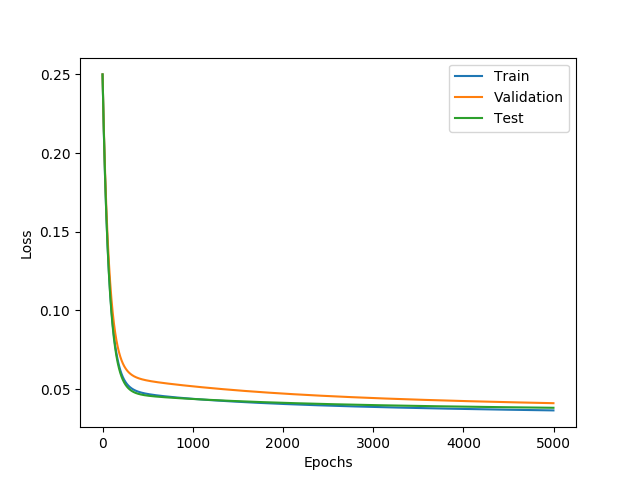
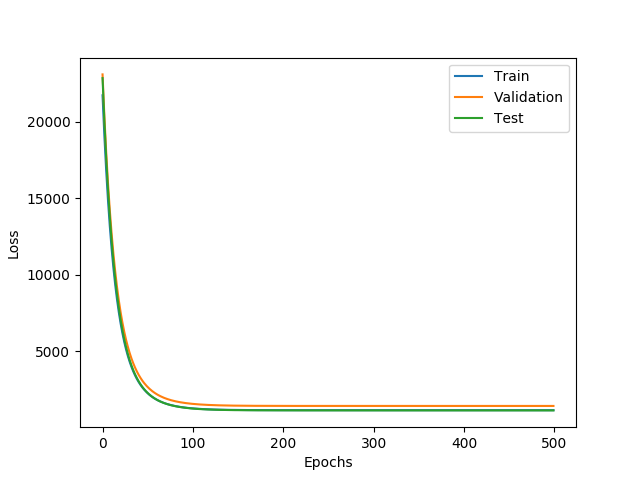
addded pytorch

diff --git a/a1/code/starter.py b/a1/code/starter.py
@@ -2,8 +2,35 @@ import tensorflow as tf
 import numpy as np
 from numpy.linalg import inv
 import matplotlib.pyplot as plt
+import torch
 import time
-
+class Dataset(torch.utils.data.Dataset):
+    def __init__(self, data, labels):
+        'Initialization'
+        self.labels = labels
+        self.data = data.reshape((data.shape[0], data.shape[1]*data.shape[1]))
+        self.data = np.concatenate((np.ones((self.data.shape[0], 1)), self.data), axis=1)
+    def __len__(self):
+        'Denotes the total number of samples'
+        return len(self.labels)
+    def __getitem__(self, index):
+        'Generates one sample of data'
+        # Select sample
+        ID = self.labels[index]
+        # Load data and get label
+        X = self.data[ID]
+        y = self.labels[ID]
+        return X, y
+    def obtain_np_data(self):
+        return self.data, self.labels
+def truncatedNormal(input_tensor, mean, std):
+    for i in range (0, input_tensor.size()[0]):
+        for j in range (0, input_tensor.size()[1]):
+            num = np.random.normal(mean, std)
+            while np.abs(num - mean) > 2 * std:
+                num = np.random.normal(mean, std)
+            input_tensor[i][j] = num
+    return input_tensor.numpy()
 
 def loadData():
     with np.load('notMNIST.npz') as data:
@@ -24,7 +51,6 @@ def loadData():
         testData, testTarget = Data[3600:], Target[3600:]
     return trainData, validData, testData, trainTarget, validTarget, testTarget
 
-
 def MSE(W, b, x, y, reg):
     try:
         x = x.reshape(x.shape[0], x.shape[1] * x.shape[1])
@@ -36,7 +62,6 @@ def MSE(W, b, x, y, reg):
     error = ((y - y_est).dot((y - y_est)) + 1 * reg / 2 * (W.squeeze().dot(W.squeeze()))) / x.shape[0]
     return error
 
-
 def gradMSE(W, b, x, y, reg):
     x = x.reshape(x.shape[0], x.shape[1] * x.shape[1])  # flattens the second and third dimensions
     ones = np.ones((x.shape[0], 1)).squeeze()
@@ -44,7 +69,6 @@ def gradMSE(W, b, x, y, reg):
     b_grad = (2 * ones.dot(x.dot(W) + b * ones - y)) / x.shape[0]
     W_grad = (2 * x.T.dot((x.dot(W) + b * ones - y)) + reg * W) / x.shape[0]
     return b_grad, W_grad
-
 
 def CrossEntropyLoss(w, b, x, y, reg):
     x = x.reshape(x.shape[0], x.shape[1] * x.shape[1])
@@ -58,7 +82,6 @@ def CrossEntropyLoss(w, b, x, y, reg):
     y_est = x.dot(w) + b * I#loss = np.average(y*np.log(1+np.exp(-y_est))+(1-y)*np.log(1+np.exp(y_est))) + reg / 2 * np.linalg.norm(w)
     loss = np.average(np.log(1+np.exp(-y*y_est)))+reg*np.linalg.norm(np.concatenate((w.reshape(-1,1),np.array([b]).reshape(-1,1))))
     return loss
-
 
 def gradCE(w, b, x, y, reg):
     x = x.reshape(x.shape[0], x.shape[1] * x.shape[1])
@@ -77,17 +100,31 @@ def gradCE(w, b, x, y, reg):
     b_grad = np.average(b_grad,0) + reg*b
     return b_grad,w_grad
 
+def compute_loss_with_tensor(weight, dataset, loss_func):
+    data, label = dataset.obtain_np_data()
+    data = torch.FloatTensor(data)
+    label = torch.FloatTensor(label)
+    result = data.mm(weight)
+    loss = loss_func(result, label).item()
+    return loss
 
+def compute_accuracy_with_tensor(weights, dataset):
+    x, y = dataset.obtain_np_data()
+    x = torch.FloatTensor(x)
+    result = (x.mm(weights)).detach().numpy()
+    print(x.size())
+    print(weights.size())
+    accuracy = np.where(result == y.squeeze(), 1, 0).sum()
+    return accuracy / result.shape[0]
 def compute_accuracy(W, b, x, y):
     try:
         x = x.reshape(x.shape[0], x.shape[1] * x.shape[1])
     except:
-        print("nothing")
+        pass
     output = x.dot(W) + b
     output = np.where(output >= 0.5, 1, 0).squeeze()
     accuracy = np.where(output == y.squeeze(), 1, 0).sum()
     return accuracy / output.shape[0]
-
 
 def plot_trend(list_of_data, data_names=["Train", "Validation", "Test"], data_title="Accuracy", y_label="Accuracy"):
     x_axis = np.arange(len(list_of_data[0]))
@@ -99,7 +136,6 @@ def plot_trend(list_of_data, data_names=["Train", "Validation", "Test"], data_ti
     plt.legend()
     plt.savefig(data_title + ".png")
     plt.show()
-
 
 def grad_descent(W, b, x, y, alpha, epochs, reg, error_tol=0.0000001, val_data=[], test_data=[], lossType='MSE'):
     # initialize storage elements
@@ -134,10 +170,10 @@ def grad_descent(W, b, x, y, alpha, epochs, reg, error_tol=0.0000001, val_data=[
         if epoch_error <= error_tol:
             break
     plot_trend([error_train, error_valid, error_test],
-               data_title="Loss of Train, Validation and Test Data with alpha = 0.0005, lambda = 0.5", y_label="Loss")
-    plot_trend([acc_train, acc_valid, acc_test])
+               data_title="Loss of Train, Validation and Test Data with alpha = 0.0001, lambda = 0",
+               y_label="Loss")
+    plot_trend([acc_train, acc_valid, acc_test], data_title="", y_label="Accuracy")
     return W, b
-
 
 def MSE_normalEQ(W, b, x, y):
     x = x.reshape(x.shape[0], x.shape[1] * x.shape[1])
@@ -151,47 +187,91 @@ def MSE_normalEQ(W, b, x, y):
     W = W[1:].squeeze()
     return W, b
 
-
 def buildGraph(loss="MSE"):
-    # Initialize weight and bias tensors
-    tf.set_random_seed(421)
+
+    error_train = []
+    acc_train = []
+    error_valid = []
+    acc_valid = []
+    error_test = []
+    acc_test = []
+
+    # generate dataset objects that are used to create the batch iterators used for SGD
+    # this also make the data into augmented data, in which the i-th data is = {1, x_1, x_2, ..., x_d}
+    train_dataset = Dataset(trainData, trainTarget)
+    valid_dataset = Dataset(validData, validTarget)
+    test_dataset = Dataset(testData, testTarget)
+    torch.manual_seed(421)
+    aug_weights = torch.rand((1+28 * 28, 1))
+    aug_weights = torch.tensor(truncatedNormal(aug_weights, aug_weights.mean(), 0.5), requires_grad=True).float()
+    # bias = torch.FloatTensor(torch.rand((1, 1), requires_grad=True))
+    loss_func = None
+    train_loader = torch.utils.data.DataLoader(train_dataset, batch_size=len(train_dataset), shuffle=True)
+    valid_loader = torch.utils.data.DataLoader(valid_dataset, batch_size=len(valid_dataset), shuffle=True)
+    test_loader = torch.utils.data.DataLoader(test_dataset, batch_size=len(test_dataset), shuffle=True)
+
+    optimizer = torch.optim.SGD([aug_weights], lr=0.0001, weight_decay=0)
     if loss == "MSE":
-        b = 3
+        loss_func = torch.nn.functional.mse_loss
+        for epoch in range (0, 500):
+            for i, batch in enumerate(train_loader):
+                optimizer.zero_grad()
+                feat, batch_label = batch
+                feat = feat.squeeze().float()
+                batch_label = batch_label.squeeze().float()
+                result = feat.mm(aug_weights).squeeze()
+                # print("result", result)
+                # print("batch_label", globals())
+                loss = loss_func(result, batch_label)
+                print(loss)
+                loss.backward()
+                optimizer.step()
+                # prediction = feat*
+            error_train.append(compute_loss_with_tensor(aug_weights, train_dataset, loss_func))
+            error_valid.append(compute_loss_with_tensor(aug_weights, valid_dataset, loss_func))
+            error_test.append(compute_loss_with_tensor(aug_weights, test_dataset, loss_func))
+            acc_train.append(compute_accuracy_with_tensor(aug_weights, train_dataset))
+            acc_valid.append(compute_accuracy_with_tensor(aug_weights, valid_dataset))
+            acc_test.append(compute_accuracy_with_tensor(aug_weights, test_dataset))
+        plot_trend([error_train, error_valid, error_test],
+                   data_title="pytorch_lr==0.0001_weightDecay==0_Loss", y_label="Loss")
+        plot_trend([acc_train, acc_valid, acc_test], data_title="pytorch_lr==0.0001_weightDecay==0_Accuracy")
     elif loss == "CE":
-        a = 2
-    pass
+        loss_func = torch.nn.CrossEntropyLoss()
+    return weights, bias, optimizer
 
 
 trainData, validData, testData, trainTarget, validTarget, testTarget = loadData()
 # print(trainData.shape) # (num of item, length, width)
-W = np.random.randint(1, size=(28 * 28,))
-W = np.random.random((28 * 28,))
-b = 0.5
-reg = 0
-epoch = 100
-lossType='CE'
-lossTypeDic={'MSE':gradMSE, 'CE':gradCE}
-errorTypeDic = {'MSE': MSE, 'CE': CrossEntropyLoss}
-loss_func=lossTypeDic[lossType]
-error_func=errorTypeDic[lossType]
-W_ana, b_ana = MSE_normalEQ(W, b, trainData, trainTarget)
-print(compute_accuracy(W_ana, b_ana, trainData, trainTarget))
-print(MSE(W_ana, b_ana, trainData, trainTarget, 0))
-W = np.random.randint(1, size=(28 * 28,))
-b = 0.5
-W, b = grad_descent(W, b, trainData, trainTarget, 0.005, epoch, reg, error_tol=0.0000001,
-                    val_data=[validData, validTarget], test_data=[testData, testTarget],lossType=lossType)
-print(compute_accuracy(W, b, trainData, trainTarget))
-print(error_func(W, b, trainData, trainTarget, 0))
-lossType="MSE"
-loss_func=lossTypeDic[lossType]
-error_func=errorTypeDic[lossType]
-W = np.random.randint(1, size=(28 * 28,))
-b = 0.5
-W, b = grad_descent(W, b, trainData, trainTarget, 0.005, epoch, reg, error_tol=0.0000001,
-                    val_data=[validData, validTarget], test_data=[testData, testTarget],lossType=lossType)
-print(compute_accuracy(W, b, trainData, trainTarget))
-print(error_func(W, b, trainData, trainTarget, 0))
+def run_part_1():
+    W = np.random.randint(1, size=(28 * 28,))
+    W = np.random.random((28 * 28,))
+    b = 0.5
+    reg = 0
+    epoch = 100
+    lossType='CE'
+    lossTypeDic={'MSE':gradMSE, 'CE':gradCE}
+    errorTypeDic = {'MSE': MSE, 'CE': CrossEntropyLoss}
+    loss_func=lossTypeDic[lossType]
+    error_func=errorTypeDic[lossType]
+    W_ana, b_ana = MSE_normalEQ(W, b, trainData, trainTarget)
+    print(compute_accuracy(W_ana, b_ana, trainData, trainTarget))
+    print(MSE(W_ana, b_ana, trainData, trainTarget, 0))
+    W = np.random.randint(1, size=(28 * 28,))
+    b = 0.5
+    W, b = grad_descent(W, b, trainData, trainTarget, 0.005, epoch, reg, error_tol=0.0000001,
+                        val_data=[validData, validTarget], test_data=[testData, testTarget],lossType=lossType)
+    print(compute_accuracy(W, b, trainData, trainTarget))
+    print(error_func(W, b, trainData, trainTarget, 0))
+    lossType="MSE"
+    loss_func=lossTypeDic[lossType]
+    error_func=errorTypeDic[lossType]
+    W = np.random.randint(1, size=(28 * 28,))
+    b = 0.5
+    W, b = grad_descent(W, b, trainData, trainTarget, 0.005, epoch, reg, error_tol=0.0000001,
+                        val_data=[validData, validTarget], test_data=[testData, testTarget],lossType=lossType)
+    print(compute_accuracy(W, b, trainData, trainTarget))
+    print(error_func(W, b, trainData, trainTarget, 0))
 
 # for reg in [0.001, 0.1, 0.5]:
 #     W = np.random.randint(1, size=(28 * 28,))
@@ -200,3 +280,8 @@ print(error_func(W, b, trainData, trainTarget, 0))
 #                         val_data=[validData, validTarget], test_data=[testData, testTarget])
 #
 #     print("the normal of the weight vector is" + str(np.linalg.norm(W)))
+
+trainData, validData, testData, trainTarget, validTarget, testTarget = loadData()
+if __name__== "__main__":
+    # run_part_1()
+    buildGraph()
